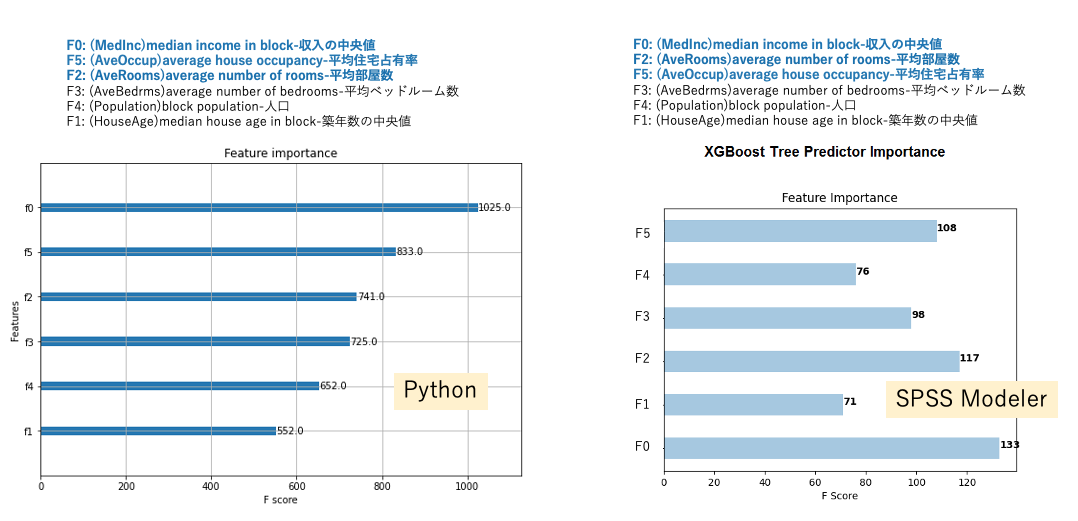
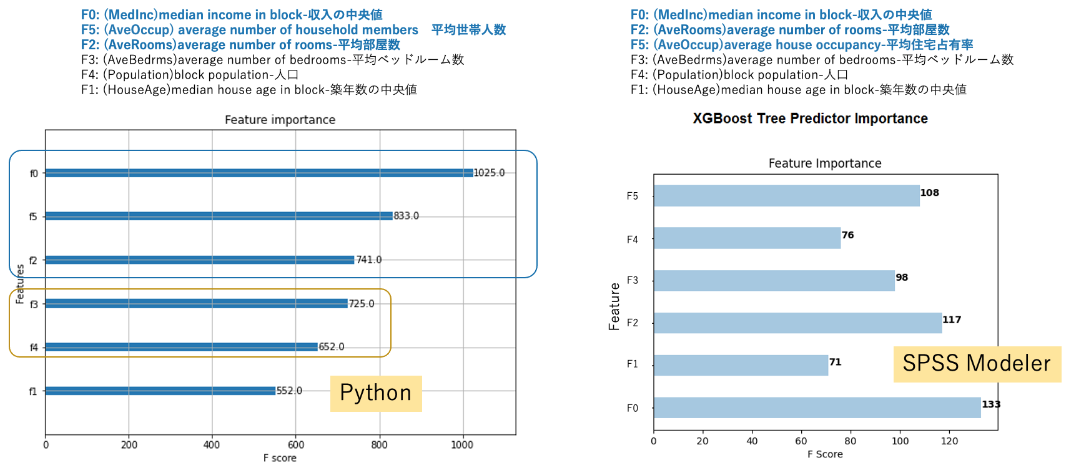
02_05_2022_v3

Changed region(s): [[0.0, 0.0, 0.4898, 0.9788], [0.551, 0.0, 0.9796, 0.9788]]

diff --git a/_posts/2022-01-22-XGBoost_Python_vs_SPSS.md b/_posts/2022-01-22-XGBoost_Python_vs_SPSS.md
@@ -18,7 +18,11 @@ excerpt_separator: <!--more-->
 | SPSS Modeler | 18.3  on Windows 10                     |
 | XGBoost on Scikit-learn   | 1.4.0 on Python 3.8 |
 
-使うデータはカリフォルニア住宅価格です。Scikit-Learnの標準データセットです。
+使うデータは[カリフォルニア住宅価格](https://scikit-learn.org/stable/datasets/real_world.html#california-housing-dataset
+){:target="_blank"}です。Scikit-Learnの標準データセットです。
+
+20640 rows × 9 columns　のサイズです。各々のカラムの意味は以下のとおりです。
+
 - F0: (MedInc)median income in block-`収入の中央値`{:style="color: blue"} 
 - F1: (HouseAge)median house age in block-`築年数の中央値`{:style="color: blue"} 
 - F2: (AveRooms)average number of rooms-`平均部屋数`{:style="color: blue"} 
@@ -28,12 +32,31 @@ excerpt_separator: <!--more-->
 - F6: (Latitude)house block latitude-`家屋の緯度`{:style="color: blue"} 
 - F7  (Longitude)house block longitude-`ハウスブロックの経度`{:style="color: blue"} 
 
+目的変数はカリフォルニア地区の住宅価格で単位は10万ドルです。データセット自体は1990年の米国国勢調査(U.S. census) のもので、一行に国勢調査で使われるブロックグループ単位で集計されています。ブロックグループは米国国勢調査において、最小の地理的な単位です。概ね、600～3,000人を一つのグループにしています。　
+
+世帯（household) は一つの住宅に居住する人数です。平均部屋数、ベッドルーム数はこの統計が世帯当たりで計算していますが、しばしばブロックグループ単位で計算すると「数世帯」と「多くの空き家」があるようなリゾート地では現実離れした大きな数字になる場合があります。それら大きな数字は外れ値としての処理が必要です。
+
+![outliner]({{ "assets/img/2020_08_15/fig_0.png" | relative_url}})<br>
+
+外れ値の求め方には色々な方法があります。代表的な方法は以下の二つです。　いずれも、SPSS Modeler でサポートされています。
+1. 平均から標準偏差のn倍(例：3倍）を範囲外とする
+2. 全体のnパーセンタイル（例：0.99)を超えるものを範囲外とする
+
+ここでは、方法2の 99パーセンタイルで平準化した場合の分布イメージを載せます。
+
+![99percentail]({{ "assets/img/2020_08_15/fig_99.png" | relative_url}})<br>
+
+### ドメイン知識による次元削減
+
+特徴量の抽出で重要なタスクはドメイン知識を持つ、データセット由来の業界知識・専門知識を持ついわゆる専門家からデータセットのカラムのうち、特徴量（説明変数）としては
+適切で無いものを除外する事です。今回の不動産価格においてはその地理的座標は不要とのことなので、ブロックの地理的座標軸（経度:F6、緯度:F7）は除きます。
+
 >
 `[ここがポイント！]`{:style="color: blue; font-size: 1.3em"} <br>
-上記が説明変数になりますが、このうちドメイン知識より家の座標軸（経度:F6、緯度:F7）は除きます。
+上記が説明変数になりますが、このうちドメイン知識よりブロックの地理的座標軸（経度:F6、緯度:F7）は除きます。
 {:style="background-color: #ffe3e2; border-left: #ffe3e2; font-size: 1.0em"}
 
-### 経度:F6、緯度:F7のデータが与える影響を可視化する
+### ドメイン知識で除かれる経度:F6、緯度:F7のデータが与える影響を可視化する
 
 経度:F6、緯度:F7を除く前のXGBoostによるFeature Imporanceの計算をPythonで行ない、経度:F6、緯度:F7の影響を見ておく事とします。
 Code は以下の通りです。　とても簡単なコードですね。
